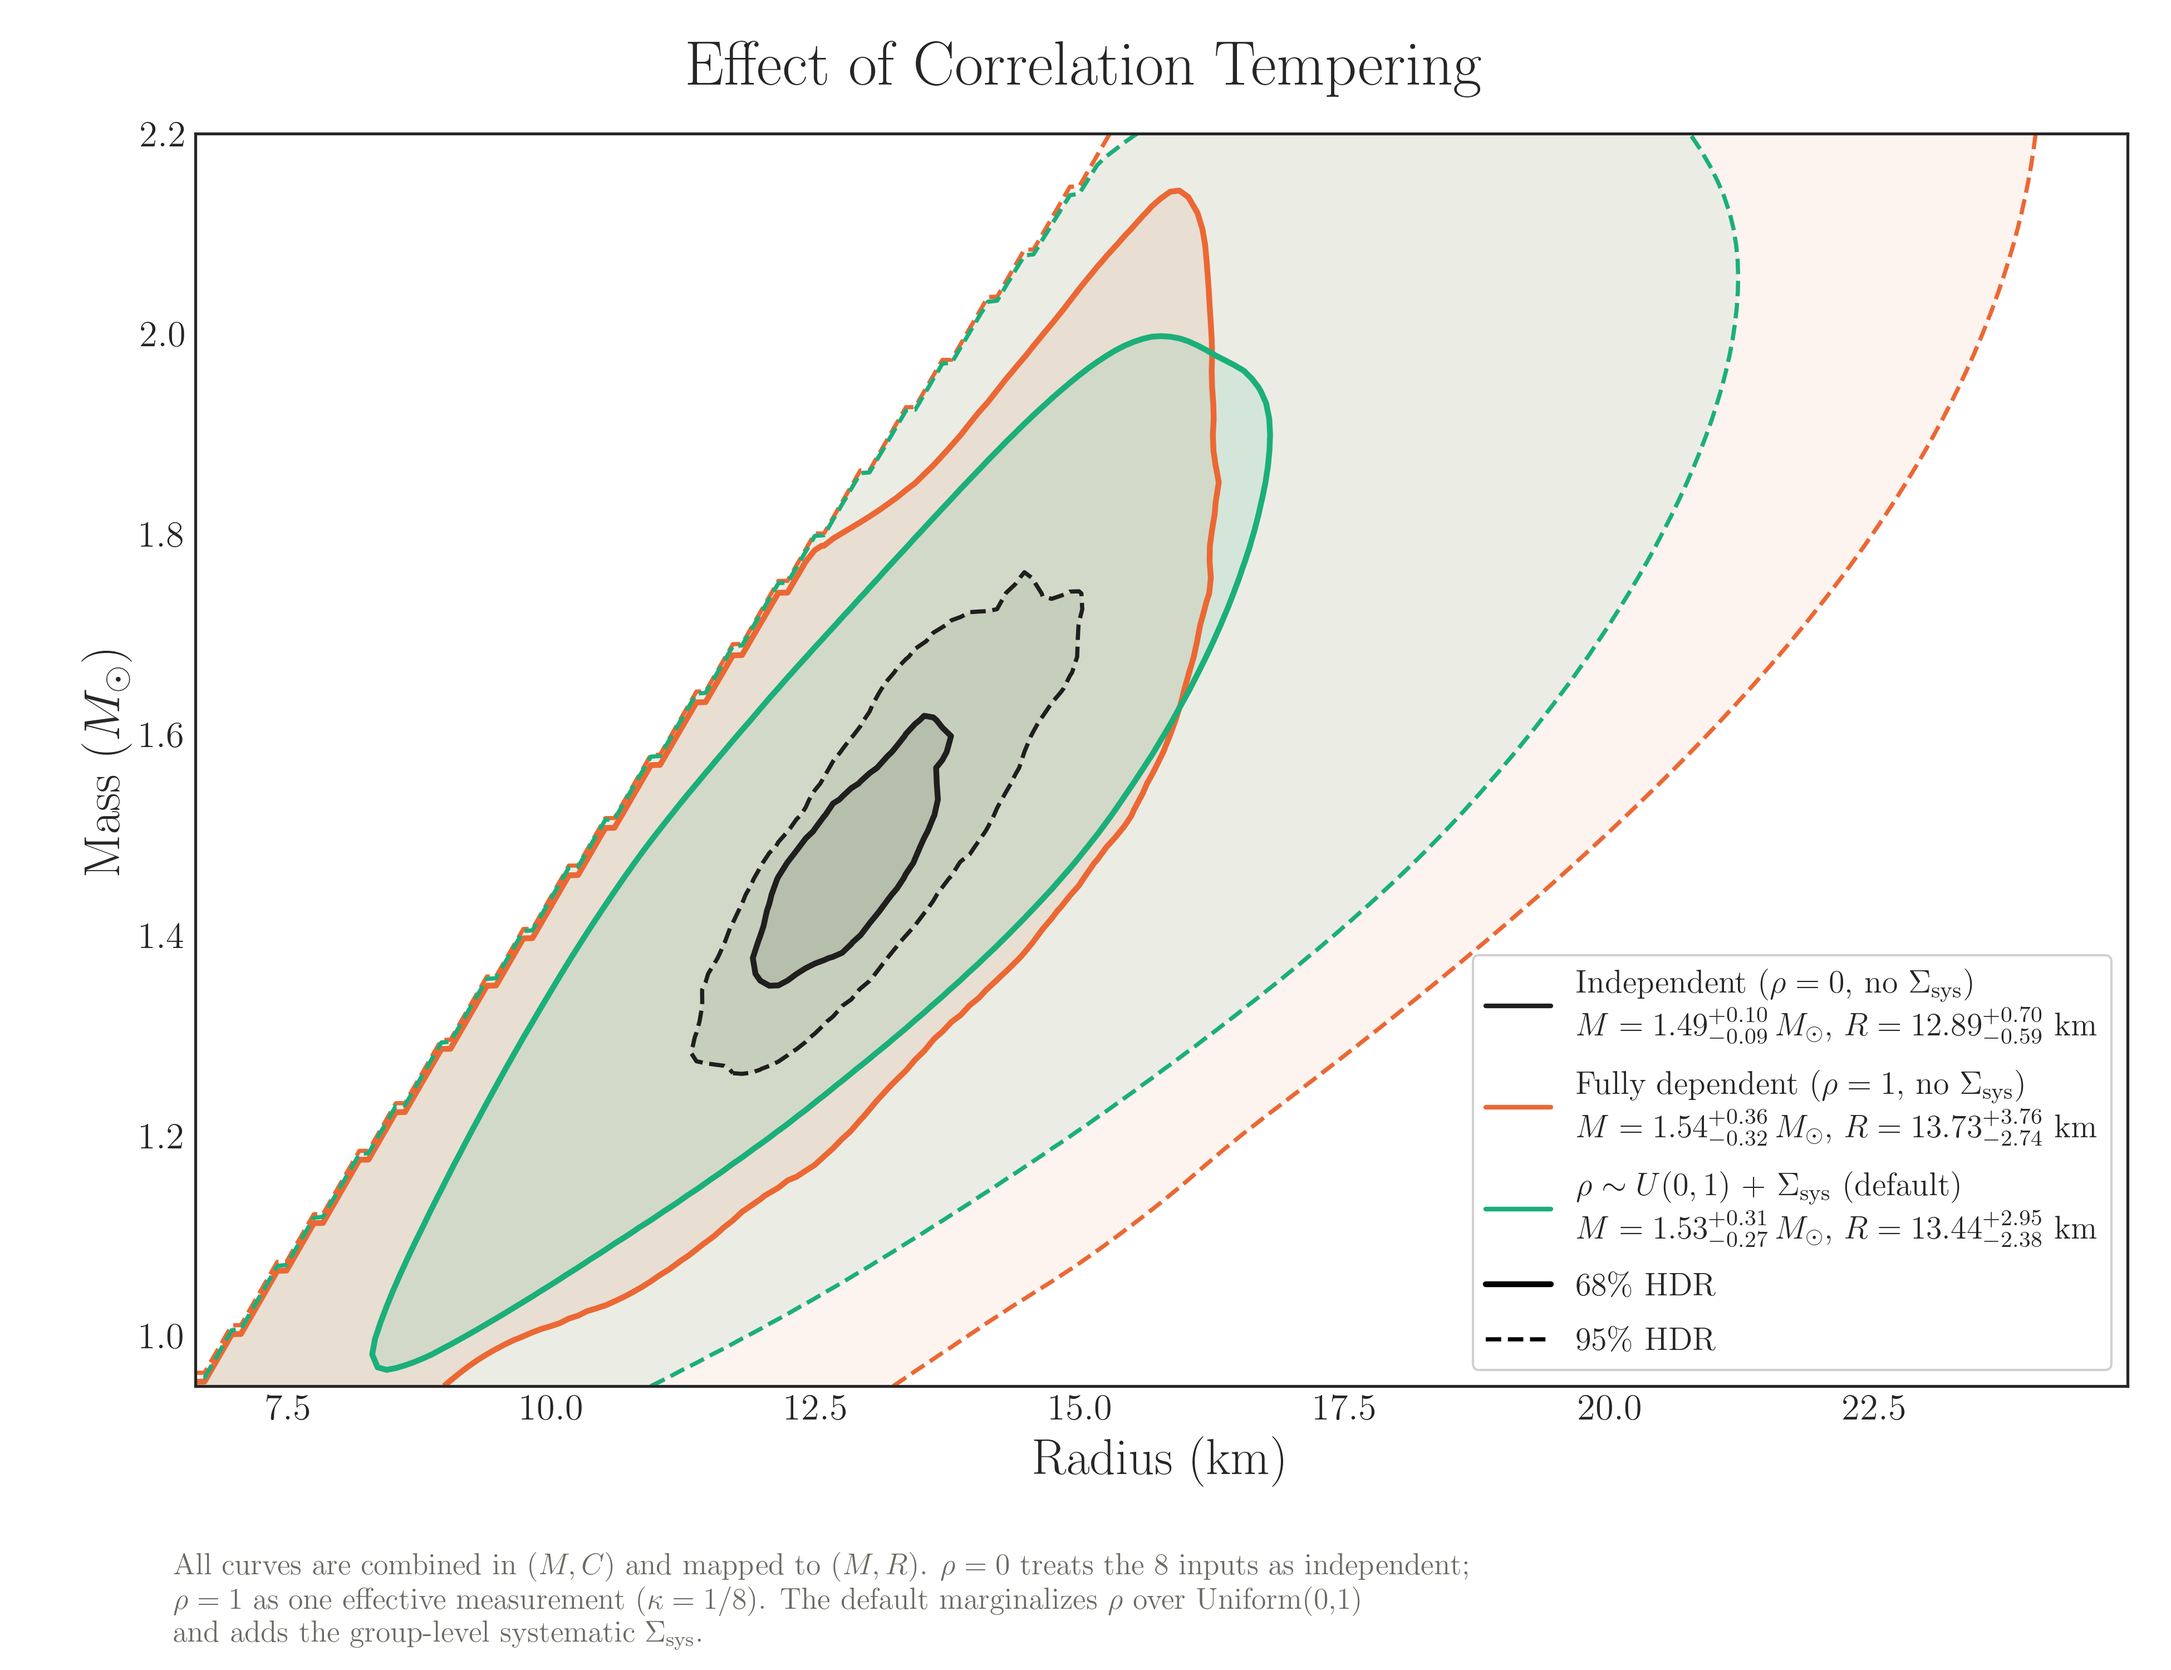
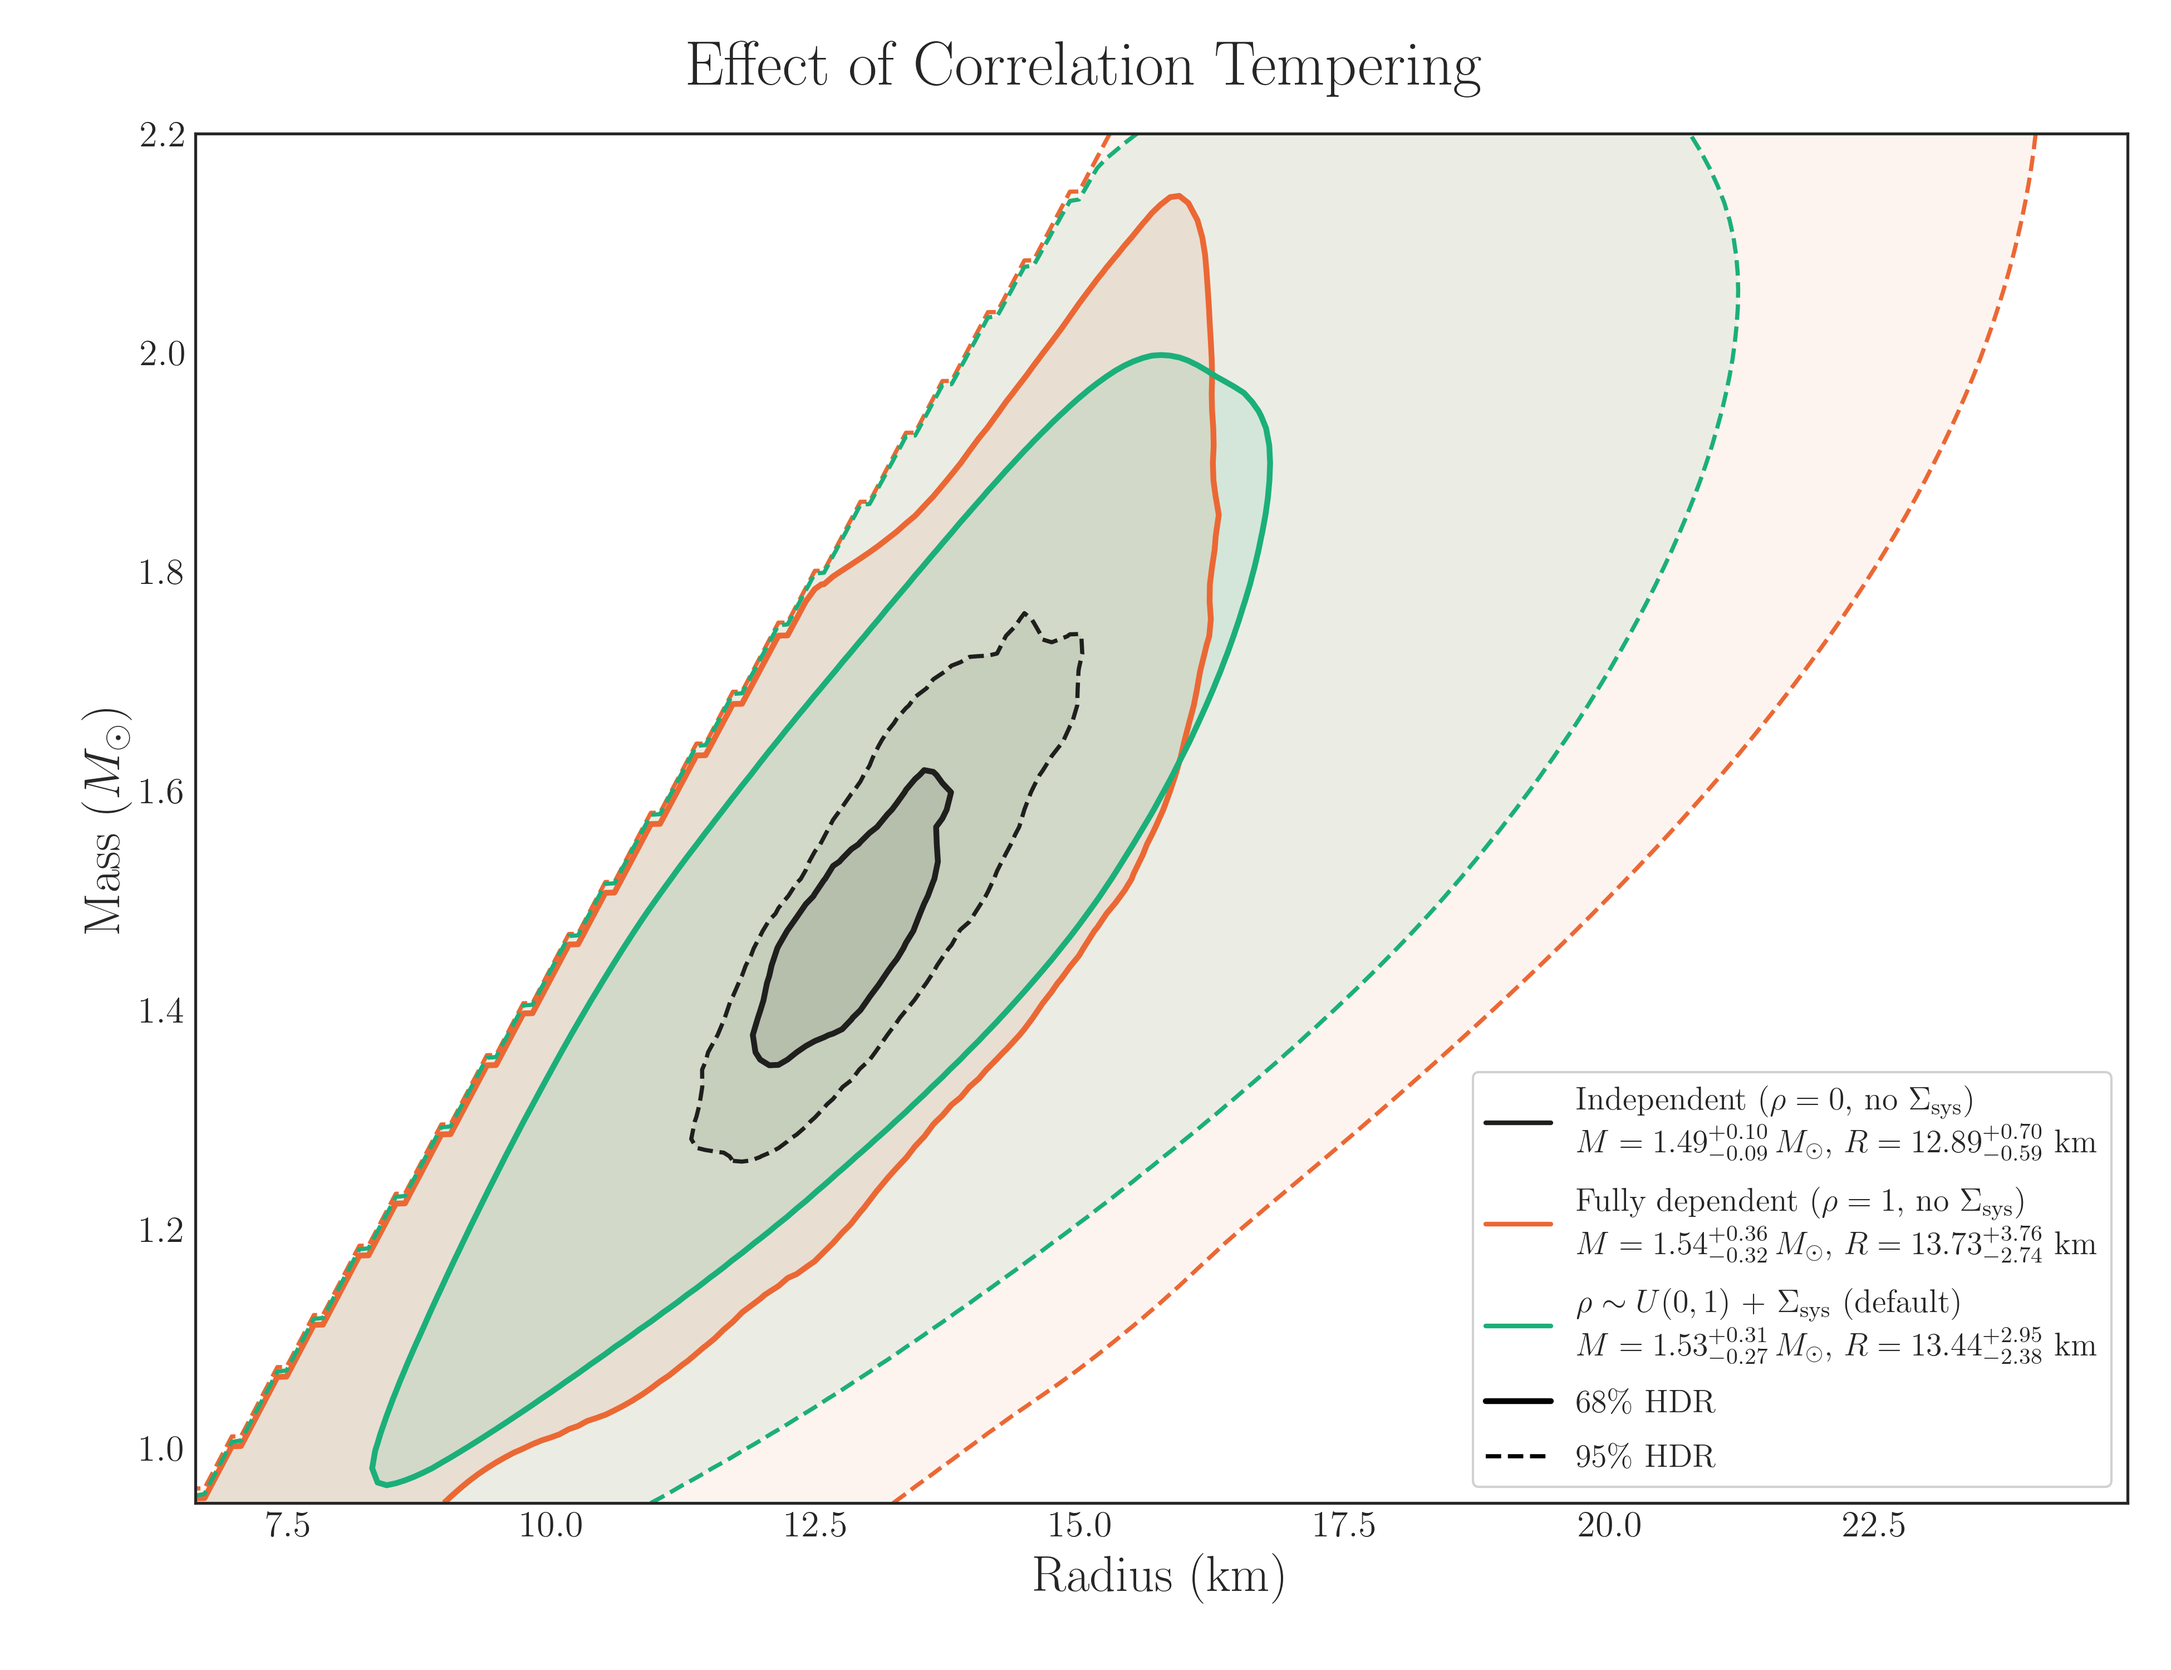
quick fix to correlation temp figure

diff --git a/j0030/plotting.py b/j0030/plotting.py
@@ -279,14 +279,7 @@ def fig_tempering(res):
     ax.legend(handles=handles, loc="lower right", fontsize=14, frameon=True,
               fancybox=True, framealpha=0.9, labelspacing=0.8)
     fig.suptitle(r"Effect of Correlation Tempering", y=0.975, fontsize=27)
-    fig.text(0.08, 0.012,
-             r"All curves are combined in $(M, C)$ and mapped to $(M, R)$. $\rho=0$ treats the 8 inputs as "
-             r"independent;" "\n"
-             r"$\rho=1$ as one effective measurement ($\kappa = 1/8$). The default marginalizes $\rho$ over "
-             r"Uniform(0,1)" "\n"
-             r"and adds the group-level systematic $\Sigma_{\rm sys}$.",
-             fontsize=13, color=MUTED, ha="left", va="bottom")
-    fig.subplots_adjust(left=0.09, right=0.98, top=0.92, bottom=0.17)
+    fig.subplots_adjust(left=0.09, right=0.98, top=0.92, bottom=0.10)
     return save(fig, "CorrelationTempering.png")
 
 
